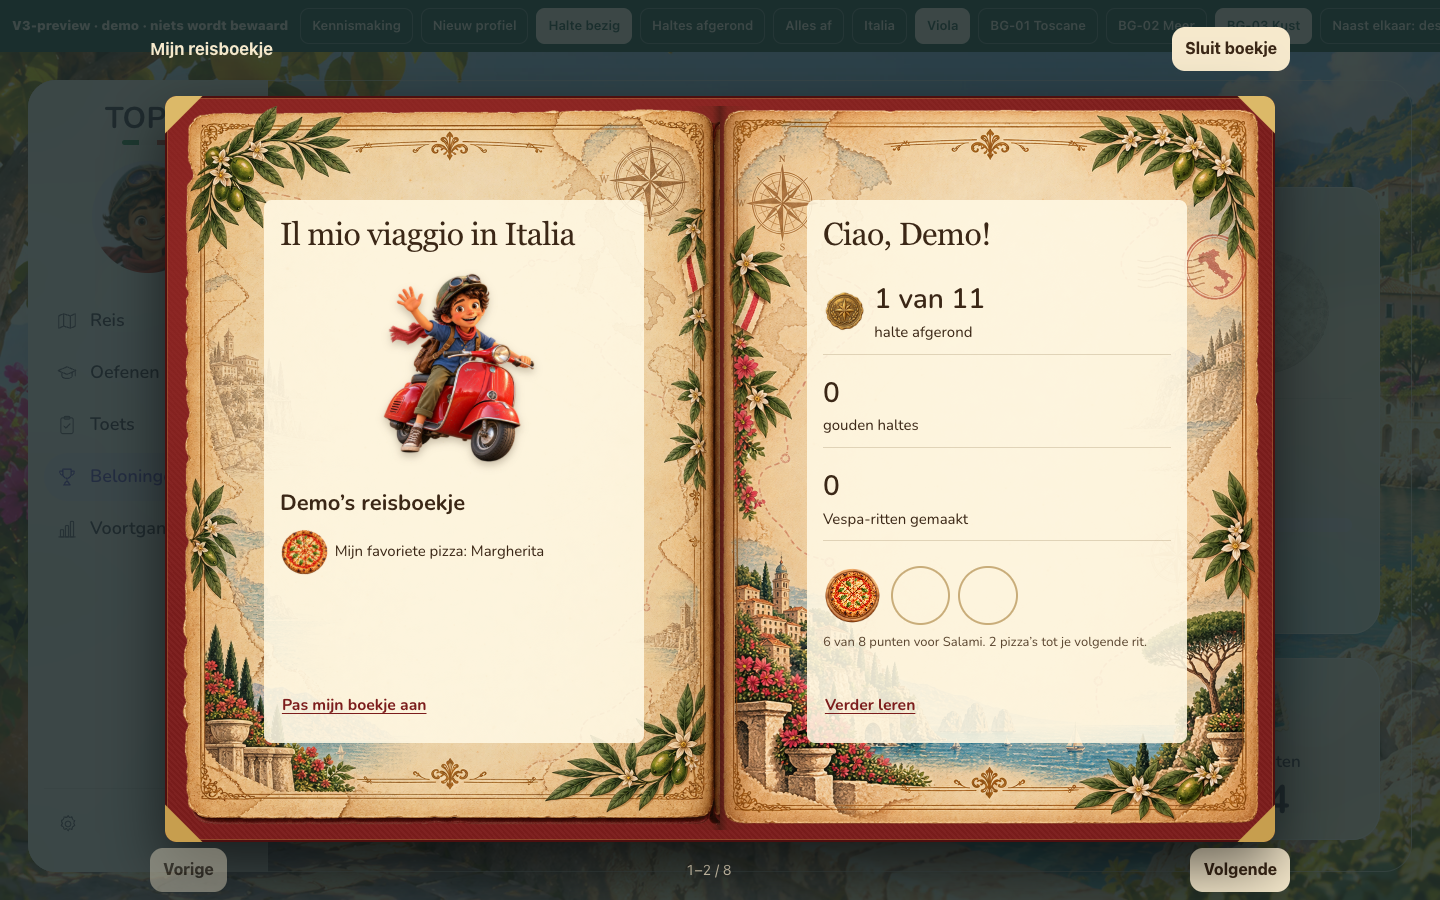
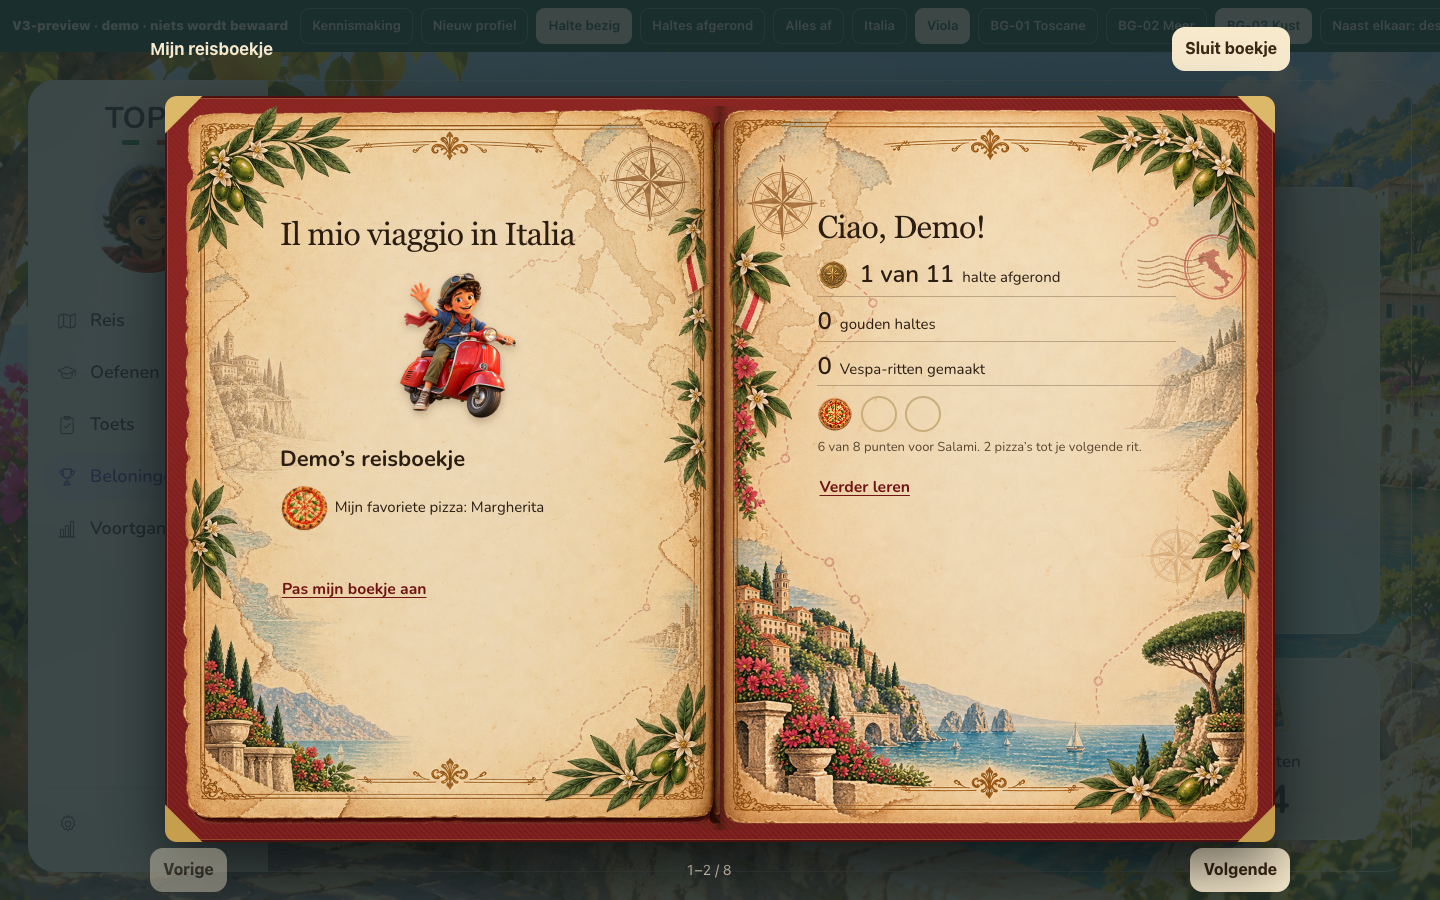
feat(v3): ronde 5 punt 3 — boek pagina 1 en 2 zonder witte tekstvakken
De tekst staat direct op het perkament in diep sepia (laagste contrast 6,0 desktop / 5,8 iPad, gemeten tegen het
kale perkament), boven de geschilderde kust en balustrade; de feiten staan op één regel. Nieuw: scripts/v3/ronde5.css.
QA: qa-v3-ronde5.py --point 3, qa-v3-faseb-beloningen.py, qa-v3-ronde3.py --point 14.

diff --git a/scripts/v3/ronde5.css b/scripts/v3/ronde5.css
@@ -1,0 +1,20 @@
+/* Ronde 5 (docs/v3/OVERDRACHT.md › Ronde 5). Presentation only; V2 behaviour, keyboard and focus order are unchanged. */
+
+/* 3. Boek, pagina 1 en 2: no cream text plate; the text stands on the parchment itself in a deep sepia ink (AA, measured
+   against the bare parchment by scripts/qa-v3-ronde5.py --point 3). */
+.travelBook .folioWriting:is(.coverFolio,:has(.bookFact)){background:none;border-radius:0;color:#2b1d11}
+.travelBook .folioWriting:is(.coverFolio,:has(.bookFact)) :is(h3,p,span,strong,small,.bookNote){color:inherit}
+.travelBook .folioWriting:is(.coverFolio,:has(.bookFact)) .bookFact{border-bottom-color:#5a412a59}
+.travelBook .folioWriting:is(.coverFolio,:has(.bookFact)) .bookLink{color:#6e1414}
+/* The text stays on the calm parchment: above the painted coast (right page, from ±62 % down) and the balustrade
+   (left page, from ±72 % down). The facts read as one line each, so everything fits above the painting. */
+.travelBook .folioWriting.coverFolio{inset:13% 14% 28% 16%}
+.travelBook .folioWriting:has(.bookFact){inset:12% 13% 38% 15%;gap:6px}
+.travelBook .folioWriting:has(.bookFact)>h3{margin:0 0 2px}
+.travelBook .folioWriting .bookFact{display:flex;align-items:center;gap:10px;padding:5px 0}
+.travelBook .folioWriting .bookFact .factIcon{width:32px;height:32px;flex:none}
+.travelBook .folioWriting .bookFact p{flex-direction:row!important;align-items:baseline;gap:8px!important}
+.travelBook .folioWriting .bookFact strong{font-size:24px!important;line-height:1.1}
+.travelBook .folioWriting:has(.bookFact) .pizzaSaved{margin:4px 0 0;gap:8px}
+.travelBook .folioWriting:has(.bookFact) .pizzaSlot{width:36px;height:36px}
+.travelBook .folioWriting:has(.bookFact) .bookLink{margin-top:2px}

diff --git a/scripts/qa-v3-ronde5.py b/scripts/qa-v3-ronde5.py
@@ -1,7 +1,8 @@
 #!/usr/bin/env python3
 """Targeted Round 5 screen checks (docs/v3/OVERDRACHT.md › Ronde 5); desktop 1440×900 and iPad 1080×810,
 overwriting the final evidence screenshots. One point per run: --point N."""
-import argparse,asyncio,hashlib,importlib.util,json,pathlib
+import argparse,asyncio,hashlib,importlib.util,io,json,pathlib
+from PIL import Image
 from playwright.async_api import async_playwright
 ROOT=pathlib.Path(__file__).resolve().parent.parent
 OUT=ROOT/'docs/qa/v3-stijlbeeld/final'
@@ -27,6 +28,19 @@ LANDMARKS='''()=>{const svg=document.querySelector('.v3MapStage .v3Map'),items=T
  const ob=[...svg.querySelectorAll('.v3Pin,.v3Mark>circle,.v3MarkName')].map(n=>n.getBoundingClientRect());
  const overlaps=[];lm.forEach((a,i)=>ob.forEach(b=>{if(a.left<b.right&&b.left<a.right&&a.top<b.bottom&&b.top<a.bottom)overlaps.push(ids[i]);}));
  return {ids,set:svg.dataset.landmarkSet||'',overlaps};}'''
+
+# Point 3: on the book's first spread, no plate behind the text, and every text line box (Range rects) with its ink.
+PLATES='''()=>[...document.querySelectorAll('#travelBook .bookSpread .folioWriting,#travelBook .bookSpread .folioWriting *')].filter(n=>{
+ if(!n.getClientRects().length||n.matches('img,svg,svg *'))return false;const m=getComputedStyle(n).backgroundColor.match(/[\\d.]+/g);return m&&(m.length>3?+m[3]:1)>.05;}).map(n=>n.className)'''
+TEXTS='''()=>{const out=[];const w=document.createTreeWalker(document.querySelector('#travelBook .bookSpread'),NodeFilter.SHOW_TEXT);
+ while(w.nextNode()){const t=w.currentNode;if(!t.textContent.trim()||!t.parentElement.closest('.folioWriting'))continue;const cs=getComputedStyle(t.parentElement);
+  const r=document.createRange();r.selectNodeContents(t);for(const b of r.getClientRects())if(b.width>2&&b.height>2)out.push({t:t.textContent.trim().slice(0,30),color:cs.color,size:parseFloat(cs.fontSize),weight:+cs.fontWeight,box:[b.left,b.top,b.width,b.height]});}
+ return out;}'''
+
+async def act(p,selector,touch=False):
+ n=p.locator(selector).filter(visible=True).first
+ await (n.tap(timeout=2500) if touch else n.click(timeout=2500))
+ await p.wait_for_timeout(300)
 
 async def check(p,n,touch,vp):
  shots=[]
@@ -74,6 +88,30 @@ async def check(p,n,touch,vp):
   await q.play_toets(p)
   assert await p.evaluate('document.querySelectorAll(".v3ToetsMap .v3Landmarks>g").length')==10
   return shots,out
+ if n==3:
+  await p.goto(q.HTML.as_uri()+'#alles/bg03');await p.wait_for_timeout(700)
+  await q.goto(p,'rewards');await act(p,'.v3BookCover',touch)
+  while not await p.locator('.bookFooter button').first.is_disabled():await p.locator('.bookFooter button').first.click()
+  await p.wait_for_timeout(400)
+  plates=await p.evaluate(PLATES)
+  assert not plates,plates
+  texts=await p.evaluate(TEXTS)
+  assert len(texts)>=8,texts
+  await p.evaluate('document.querySelectorAll("#travelBook .bookSpread .folioWriting").forEach(n=>n.style.setProperty("color","transparent","important"));document.head.insertAdjacentHTML("beforeend","<style id=qaHide>#travelBook .bookSpread .folioWriting *{color:transparent!important;text-shadow:none!important}</style>")')
+  await p.wait_for_timeout(150);bg=await p.screenshot()
+  await p.evaluate('document.getElementById("qaHide").remove();document.querySelectorAll("#travelBook .bookSpread .folioWriting").forEach(n=>n.style.removeProperty("color"))')
+  im=Image.open(io.BytesIO(bg)).convert('RGB');fails=[];low=99
+  for t in texts:
+   fg=q.lum(q.parse_rgb(t['color']));x,y,w,h=t['box']
+   crop=im.crop((int(x),int(y),int(x+w)+1,int(y+h)+1))
+   cs=sorted((max(fg,L)+.05)/(min(fg,L)+.05) for L in (q.lum(px) for px in crop.getdata()))
+   c=cs[int(len(cs)*.05)];low=min(low,c)
+   large=t['size']>=24 or (t['size']>=18.66 and t['weight']>=700)
+   if c<(3 if large else 4.5):fails.append({'text':t['t'],'contrast':round(c,2),'size':t['size']})
+  assert not fails,fails
+  await p.evaluate('document.activeElement?.blur?.()');await p.mouse.move(1,1);await p.wait_for_timeout(200)
+  await p.screenshot(path=str(OUT/f'boek-p1-2-{vp}.png'));shots.append('boek-p1-2')
+  return shots,{'texts':len(texts),'lowestContrast':round(low,2)}
  raise SystemExit('unknown point')
 
 async def main(point):
